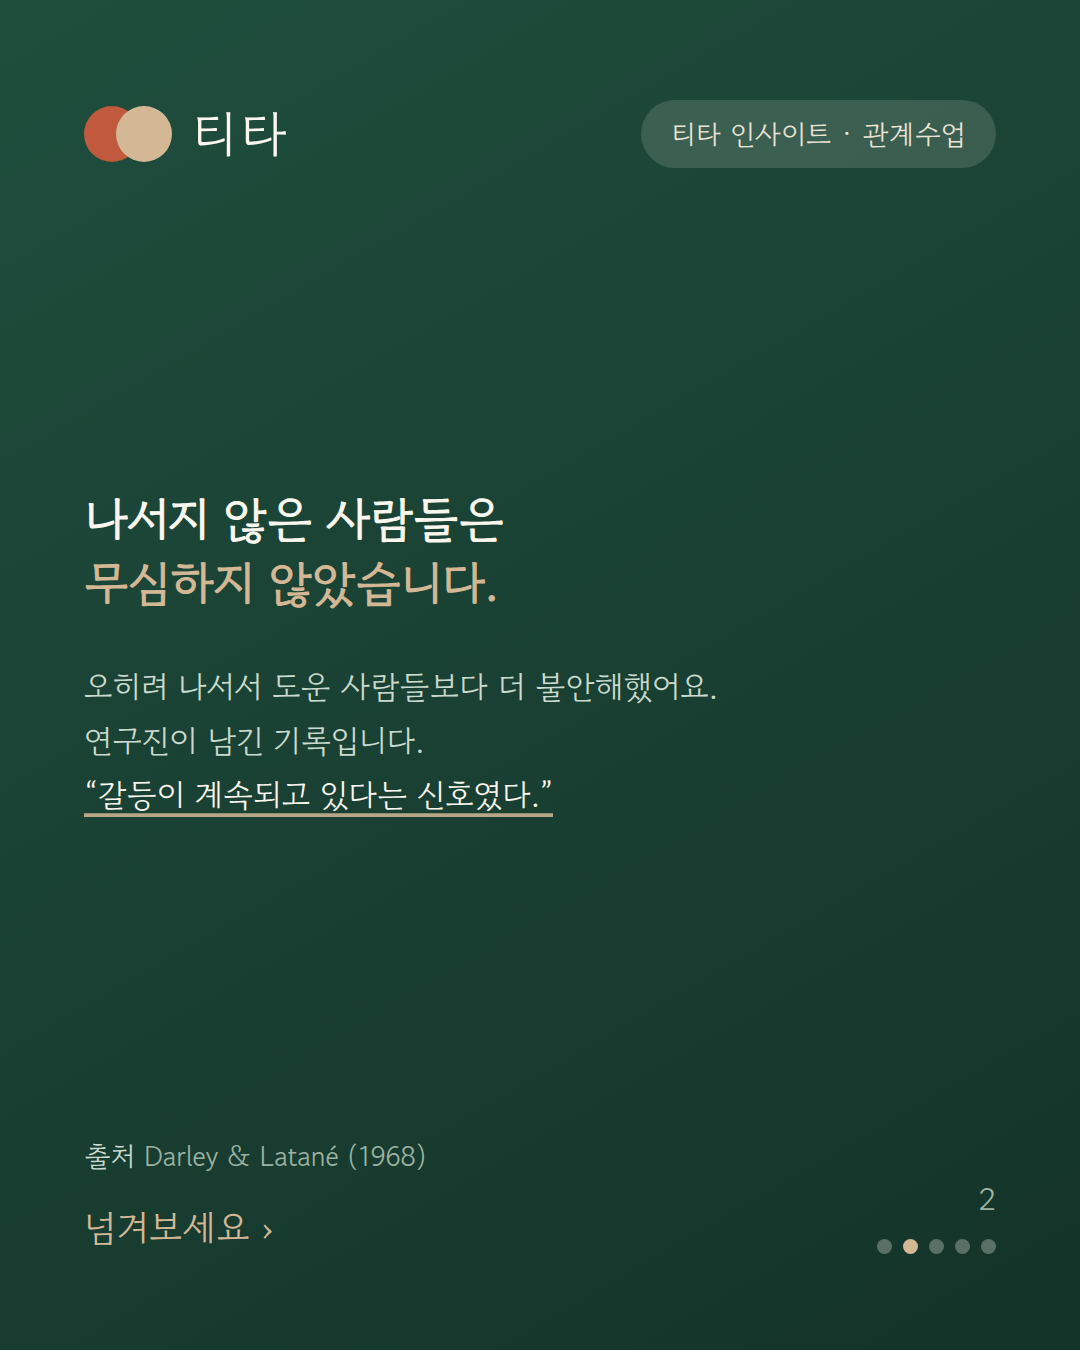
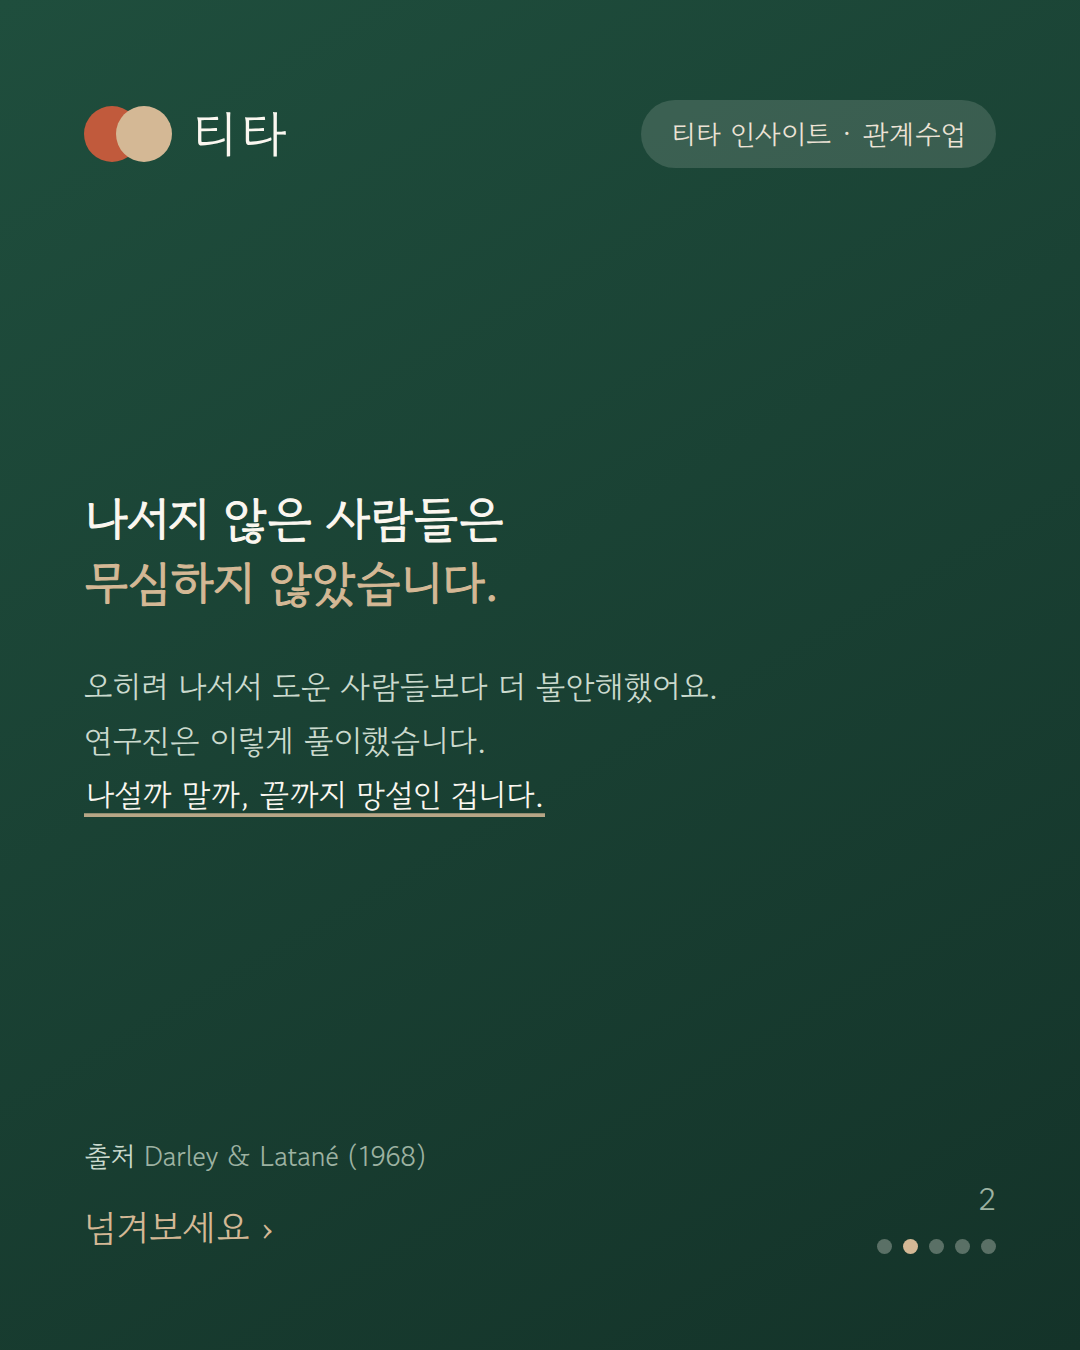
style(blog): 인사이트 14의 어색한 두 표현을 고친다
'갈등이 계속되고 있다는 신호'는 논문 문장을 그대로 옮긴 거라 한국어로
뜻이 안 잡힌다. 무슨 말인지로 풀어 '나설까 말까, 끝까지 망설인 겁니다'로
바꿨다. '판을 바꾼다'도 '물꼬를 튼다'로 바꿨다.

Claude-Session: https://claude.ai/code/session_01SVoaR1M7XWjiBzTKquaj1d

Changed region(s): [[0.0917, 0.5289, 0.4889, 0.6222]]

diff --git a/src/app/blog/posts.ts b/src/app/blog/posts.ts
@@ -124,7 +124,7 @@ export const POSTS: BlogPost[] = [
       },
       {
         type: "p",
-        text: "나서지 않은 참가자들을 관찰해 보니 태연하지 않았습니다. **오히려 나서서 도운 사람들보다 더 불안해하고, 손을 떨고, 어쩔 줄 몰라 했습니다.** 논문에는 이렇게 적혀 있습니다. 그 감정 반응은 **갈등이 계속되고 있다는 신호**였다고. 나선 사람은 그 갈등을 행동으로 풀었고, 나서지 않은 사람은 끝내 풀지 못한 채 앉아 있었던 겁니다.",
+        text: "나서지 않은 참가자들을 관찰해 보니 태연하지 않았습니다. **오히려 나서서 도운 사람들보다 더 불안해하고, 손을 떨고, 어쩔 줄 몰라 했습니다.** 논문은 그 모습을 이렇게 풀이했습니다. **나설까 말까 하는 망설임이 끝나지 않은 상태**라고요. 도운 사람은 몸을 움직여 그 망설임을 끝냈고, 돕지 않은 사람은 **끝내 끝내지 못한 채** 그 자리에 앉아 있었던 겁니다.",
       },
       {
         type: "p",
@@ -179,7 +179,7 @@ export const POSTS: BlogPost[] = [
         type: "p",
         text: "그러니 이건 **글을 쓰는 쪽에서 풀 수 있는 문제가 아닙니다.** 더 잘 쓴다고, 더 정확히 물어본다고 해결되지 않습니다. 다행히 다른 쪽에 답이 있었습니다.",
       },
-      { type: "h2", text: "첫 한 줄이 판을 바꿉니다" },
+      { type: "h2", text: "첫 한 줄이 물꼬를 틉니다" },
       {
         type: "image",
         src: "/blog/insight-14/card-4.png",
@@ -267,7 +267,7 @@ export const POSTS: BlogPost[] = [
       },
       {
         q: "나서지 않는 사람은 관심이 없는 건가요?",
-        a: "1968년 실험의 저자들은 정반대로 기록했습니다. 나서지 않은 참가자들의 감정 반응은 갈등이 계속되고 있다는 신호였고, 나선 사람들은 그 갈등을 행동으로 해소한 것이라고요. 마음이 없어서가 아니라 첫 번째가 되기 어려워서 멈추는 쪽에 가깝습니다.",
+        a: "1968년 실험의 저자들은 정반대로 기록했습니다. 나서지 않은 참가자들이 보인 동요는 나설까 말까 하는 망설임이 끝나지 않았다는 뜻이고, 나선 사람들은 몸을 움직여 그 망설임을 끝낸 것이라고요. 마음이 없어서가 아니라 첫 번째가 되기 어려워서 멈추는 쪽에 가깝습니다.",
       },
       {
         q: "댓글 하나가 정말 차이를 만드나요?",
